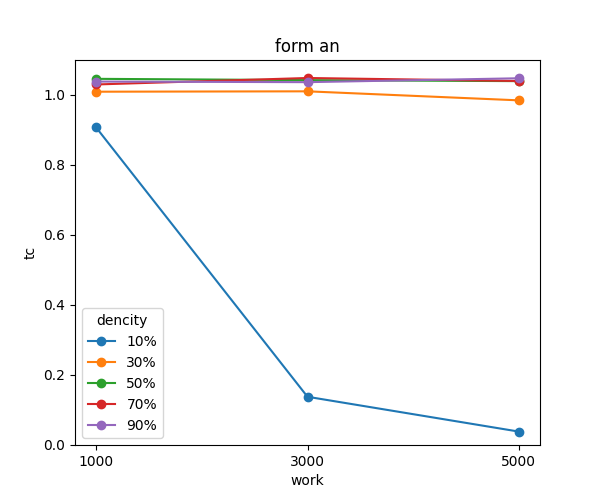
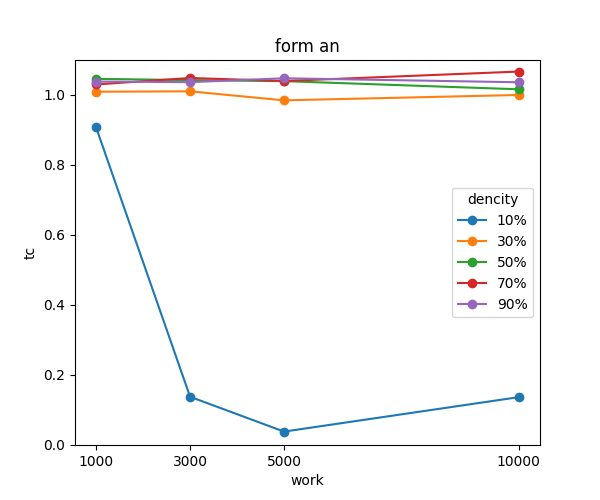
commit

diff --git a/src/src8/plot5_calculate_keepdTc.py b/src/src8/plot5_calculate_keepdTc.py
@@ -11,12 +11,19 @@ from matplotlib.animation import FuncAnimation
 from datetime import datetime
 from statistics import mean
 
-names = ["3_keepd_09_form_or_t10_g10000_r100_w5000_b1",
+names = [
+         "3_keepd_09_form_or_t10_g10000_r100_w10000_b1",
+         "3_keepd_07_form_or_t10_g10000_r100_w10000_b1",
+         "3_keepd_05_form_or_t10_g10000_r100_w10000_b1",
+         "3_keepd_03_form_or_t10_g10000_r100_w10000_b1",
+         "3_keepd_01_form_or_t10_g10000_r100_w10000_b1",
+
+         "3_keepd_09_form_or_t10_g10000_r100_w5000_b1",
          "3_keepd_07_form_or_t10_g10000_r100_w5000_b1",
          "3_keepd_05_form_or_t10_g10000_r100_w5000_b1",
          "3_keepd_03_form_or_t10_g10000_r100_w5000_b1",
          "3_keepd_01_form_or_t10_g10000_r100_w5000_b1",
-         
+
          "3_keepd_09_form_or_t10_g10000_r100_w3000_b1",
          "3_keepd_07_form_or_t10_g10000_r100_w3000_b1",
          "3_keepd_05_form_or_t10_g10000_r100_w3000_b1",
@@ -29,6 +36,12 @@ names = ["3_keepd_09_form_or_t10_g10000_r100_w5000_b1",
          "3_keepd_03_form_or_t10_g10000_r100_w1000_b1",
          "3_keepd_01_form_or_t10_g10000_r100_w1000_b1",
 
+
+         "3_keepd_09_leave_or_t10_g10000_r100_w10000_b1",
+         "3_keepd_07_leave_or_t10_g10000_r100_w10000_b1",
+         "3_keepd_05_leave_or_t10_g10000_r100_w10000_b1",
+         "3_keepd_03_leave_or_t10_g10000_r100_w10000_b1",
+         "3_keepd_01_leave_or_t10_g10000_r100_w10000_b1",
 
          "3_keepd_09_leave_or_t10_g10000_r100_w5000_b1",
          "3_keepd_07_leave_or_t10_g10000_r100_w5000_b1",
@@ -49,12 +62,18 @@ names = ["3_keepd_09_form_or_t10_g10000_r100_w5000_b1",
          "3_keepd_01_leave_or_t10_g10000_r100_w1000_b1",
 
 
+         "3_keepd_09_form_an_t10_g10000_r100_w10000_b1",
+         "3_keepd_07_form_an_t10_g10000_r100_w10000_b1",
+         "3_keepd_05_form_an_t10_g10000_r100_w10000_b1",
+         "3_keepd_03_form_an_t10_g10000_r100_w10000_b1",
+         "3_keepd_01_form_an_t10_g10000_r100_w10000_b1",
+
          "3_keepd_09_form_an_t10_g10000_r100_w5000_b1",
          "3_keepd_07_form_an_t10_g10000_r100_w5000_b1",
          "3_keepd_05_form_an_t10_g10000_r100_w5000_b1",
          "3_keepd_03_form_an_t10_g10000_r100_w5000_b1",
          "3_keepd_01_form_an_t10_g10000_r100_w5000_b1",
-         
+
          "3_keepd_09_form_an_t10_g10000_r100_w3000_b1",
          "3_keepd_07_form_an_t10_g10000_r100_w3000_b1",
          "3_keepd_05_form_an_t10_g10000_r100_w3000_b1",
@@ -68,12 +87,18 @@ names = ["3_keepd_09_form_or_t10_g10000_r100_w5000_b1",
          "3_keepd_01_form_an_t10_g10000_r100_w1000_b1",
 
 
+         "3_keepd_09_leave_an_t10_g10000_r100_w10000_b1",
+         "3_keepd_07_leave_an_t10_g10000_r100_w10000_b1",
+         "3_keepd_05_leave_an_t10_g10000_r100_w10000_b1",
+         "3_keepd_03_leave_an_t10_g10000_r100_w10000_b1",
+         "3_keepd_01_leave_an_t10_g10000_r100_w10000_b1",
+
          "3_keepd_09_leave_an_t10_g10000_r100_w5000_b1",
          "3_keepd_07_leave_an_t10_g10000_r100_w5000_b1",
          "3_keepd_05_leave_an_t10_g10000_r100_w5000_b1",
          "3_keepd_03_leave_an_t10_g10000_r100_w5000_b1",
          "3_keepd_01_leave_an_t10_g10000_r100_w5000_b1",
-         
+
          "3_keepd_09_leave_an_t10_g10000_r100_w3000_b1",
          "3_keepd_07_leave_an_t10_g10000_r100_w3000_b1",
          "3_keepd_05_leave_an_t10_g10000_r100_w3000_b1",
@@ -99,3 +124,169 @@ def main(csv, name, generation):
 for name in names:
     main("D:/master/src8/"+name+".csv", name=name, generation=10000) #TODO:
 
+name:3_keepd_09_form_or_t10_g10000_r100_w10000_b1
+tc: 1.0445
+name:3_keepd_07_form_or_t10_g10000_r100_w10000_b1
+tc: 1.0565
+name:3_keepd_05_form_or_t10_g10000_r100_w10000_b1
+tc: 1.0700999999999998
+name:3_keepd_03_form_or_t10_g10000_r100_w10000_b1
+tc: 1.0598999999999998
+name:3_keepd_01_form_or_t10_g10000_r100_w10000_b1
+tc: 1.0343
+name:3_keepd_09_form_or_t10_g10000_r100_w5000_b1
+tc: 1.0298
+name:3_keepd_07_form_or_t10_g10000_r100_w5000_b1
+tc: 1.0720999999999998
+name:3_keepd_05_form_or_t10_g10000_r100_w5000_b1
+tc: 1.0520999999999998
+name:3_keepd_03_form_or_t10_g10000_r100_w5000_b1
+tc: 1.0566999999999998
+name:3_keepd_01_form_or_t10_g10000_r100_w5000_b1
+tc: 1.042
+name:3_keepd_09_form_or_t10_g10000_r100_w3000_b1
+tc: 1.058
+name:3_keepd_07_form_or_t10_g10000_r100_w3000_b1
+tc: 1.0403
+name:3_keepd_05_form_or_t10_g10000_r100_w3000_b1
+tc: 1.0628000000000002
+name:3_keepd_03_form_or_t10_g10000_r100_w3000_b1
+tc: 1.0555999999999999
+name:3_keepd_01_form_or_t10_g10000_r100_w3000_b1
+tc: 1.0612999999999997
+name:3_keepd_09_form_or_t10_g10000_r100_w1000_b1
+tc: 1.0492999999999997
+name:3_keepd_07_form_or_t10_g10000_r100_w1000_b1
+tc: 1.0553
+name:3_keepd_05_form_or_t10_g10000_r100_w1000_b1
+tc: 1.0418
+name:3_keepd_03_form_or_t10_g10000_r100_w1000_b1
+tc: 1.049
+name:3_keepd_01_form_or_t10_g10000_r100_w1000_b1
+tc: 1.0396999999999998
+
+
+name:3_keepd_09_leave_or_t10_g10000_r100_w10000_b1
+tc: 1.0399
+name:3_keepd_07_leave_or_t10_g10000_r100_w10000_b1
+tc: 1.0463999999999998
+name:3_keepd_05_leave_or_t10_g10000_r100_w10000_b1
+tc: 1.0531
+name:3_keepd_03_leave_or_t10_g10000_r100_w10000_b1
+tc: 0.8232999999999999
+name:3_keepd_01_leave_or_t10_g10000_r100_w10000_b1
+tc: 0.1426
+name:3_keepd_09_leave_or_t10_g10000_r100_w5000_b1
+tc: 1.0413999999999999
+name:3_keepd_07_leave_or_t10_g10000_r100_w5000_b1
+tc: 1.0355
+name:3_keepd_05_leave_or_t10_g10000_r100_w5000_b1
+tc: 1.0538999999999998
+name:3_keepd_03_leave_or_t10_g10000_r100_w5000_b1
+tc: 0.9389999999999997
+name:3_keepd_01_leave_or_t10_g10000_r100_w5000_b1
+tc: 0.13599999999999998
+name:3_keepd_09_leave_or_t10_g10000_r100_w3000_b1
+tc: 1.076
+name:3_keepd_07_leave_or_t10_g10000_r100_w3000_b1
+tc: 1.0378
+name:3_keepd_05_leave_or_t10_g10000_r100_w3000_b1
+tc: 1.0275
+name:3_keepd_03_leave_or_t10_g10000_r100_w3000_b1
+tc: 1.02
+name:3_keepd_01_leave_or_t10_g10000_r100_w3000_b1
+tc: 0.7171
+name:3_keepd_09_leave_or_t10_g10000_r100_w1000_b1
+tc: 1.0561999999999998
+name:3_keepd_07_leave_or_t10_g10000_r100_w1000_b1
+tc: 1.0455999999999999
+name:3_keepd_05_leave_or_t10_g10000_r100_w1000_b1
+tc: 1.0572
+name:3_keepd_03_leave_or_t10_g10000_r100_w1000_b1
+tc: 1.0615999999999999
+name:3_keepd_01_leave_or_t10_g10000_r100_w1000_b1
+tc: 1.0051
+
+
+name:3_keepd_09_form_an_t10_g10000_r100_w10000_b1
+tc: 1.0363999999999998
+name:3_keepd_07_form_an_t10_g10000_r100_w10000_b1
+tc: 1.067
+name:3_keepd_05_form_an_t10_g10000_r100_w10000_b1
+tc: 1.0163
+name:3_keepd_03_form_an_t10_g10000_r100_w10000_b1
+tc: 1.0001
+name:3_keepd_01_form_an_t10_g10000_r100_w10000_b1
+tc: 0.13679999999999998
+name:3_keepd_09_form_an_t10_g10000_r100_w5000_b1
+tc: 1.0478
+name:3_keepd_07_form_an_t10_g10000_r100_w5000_b1
+tc: 1.04
+name:3_keepd_05_form_an_t10_g10000_r100_w5000_b1
+tc: 1.0395999999999999
+name:3_keepd_03_form_an_t10_g10000_r100_w5000_b1
+tc: 0.9846999999999998
+name:3_keepd_01_form_an_t10_g10000_r100_w5000_b1
+tc: 0.038299999999999994
+name:3_keepd_09_form_an_t10_g10000_r100_w3000_b1
+tc: 1.0366999999999997
+name:3_keepd_07_form_an_t10_g10000_r100_w3000_b1
+tc: 1.0486
+name:3_keepd_05_form_an_t10_g10000_r100_w3000_b1
+tc: 1.0425
+name:3_keepd_03_form_an_t10_g10000_r100_w3000_b1
+tc: 1.0105
+name:3_keepd_01_form_an_t10_g10000_r100_w3000_b1
+tc: 0.1378
+name:3_keepd_09_form_an_t10_g10000_r100_w1000_b1
+tc: 1.0384
+name:3_keepd_07_form_an_t10_g10000_r100_w1000_b1
+tc: 1.0301
+name:3_keepd_05_form_an_t10_g10000_r100_w1000_b1
+tc: 1.0461999999999998
+name:3_keepd_03_form_an_t10_g10000_r100_w1000_b1
+tc: 1.0094
+name:3_keepd_01_form_an_t10_g10000_r100_w1000_b1
+tc: 0.9071999999999999
+
+
+name:3_keepd_09_leave_an_t10_g10000_r100_w10000_b1
+tc: 1.0371
+name:3_keepd_07_leave_an_t10_g10000_r100_w10000_b1
+tc: 1.0416999999999998
+name:3_keepd_05_leave_an_t10_g10000_r100_w10000_b1
+tc: 1.0592
+name:3_keepd_03_leave_an_t10_g10000_r100_w10000_b1
+tc: 1.0483999999999998
+name:3_keepd_01_leave_an_t10_g10000_r100_w10000_b1
+tc: 1.0639
+name:3_keepd_09_leave_an_t10_g10000_r100_w5000_b1
+tc: 1.068
+name:3_keepd_07_leave_an_t10_g10000_r100_w5000_b1
+tc: 1.059
+name:3_keepd_05_leave_an_t10_g10000_r100_w5000_b1
+tc: 1.0345
+name:3_keepd_03_leave_an_t10_g10000_r100_w5000_b1
+tc: 1.056
+name:3_keepd_01_leave_an_t10_g10000_r100_w5000_b1
+tc: 1.0480999999999998
+name:3_keepd_09_leave_an_t10_g10000_r100_w3000_b1
+tc: 1.0439
+name:3_keepd_07_leave_an_t10_g10000_r100_w3000_b1
+tc: 1.032
+name:3_keepd_05_leave_an_t10_g10000_r100_w3000_b1
+tc: 1.0432
+name:3_keepd_03_leave_an_t10_g10000_r100_w3000_b1
+tc: 1.0458999999999996
+name:3_keepd_01_leave_an_t10_g10000_r100_w3000_b1
+tc: 1.0476999999999999
+name:3_keepd_09_leave_an_t10_g10000_r100_w1000_b1
+tc: 1.0595999999999999
+name:3_keepd_07_leave_an_t10_g10000_r100_w1000_b1
+tc: 1.06
+name:3_keepd_05_leave_an_t10_g10000_r100_w1000_b1
+tc: 1.054
+name:3_keepd_03_leave_an_t10_g10000_r100_w1000_b1
+tc: 1.0456999999999999
+name:3_keepd_01_leave_an_t10_g10000_r100_w1000_b1
+tc: 1.0543

diff --git a/src/src8/plot5_keepdTc_fan.py b/src/src8/plot5_keepdTc_fan.py
@@ -1,3 +1,4 @@
+# work*tc dencity別 折れ線グラフ
 import os
 import time
 import random
@@ -45,14 +46,14 @@ from adjustText import adjust_text
 
 # データを整理
 data = {
-    "10%": {1000: 0.9072, 3000: 0.1378, 5000: 0.0383},
-    "30%": {1000: 1.0094, 3000: 1.0105, 5000: 0.9847},
-    "50%": {1000: 1.0462, 3000: 1.0425, 5000: 1.0396},
-    "70%": {1000: 1.0301, 3000: 1.0486, 5000: 1.0400},
-    "90%": {1000: 1.0384, 3000: 1.0367, 5000: 1.0478},
+    "10%": {1000: 0.9072, 3000: 0.1378, 5000: 0.0383, 10000: 0.1368},
+    "30%": {1000: 1.0094, 3000: 1.0105, 5000: 0.9847, 10000: 1.0001},
+    "50%": {1000: 1.0462, 3000: 1.0425, 5000: 1.0396, 10000: 1.0163},
+    "70%": {1000: 1.0301, 3000: 1.0486, 5000: 1.0400, 10000: 1.0670},
+    "90%": {1000: 1.0384, 3000: 1.0367, 5000: 1.0478, 10000: 1.0364}
 }
 
-x_values = [1000, 3000, 5000]
+x_values = [1000, 3000, 5000, 10000]
 
 # グラフを作成
 plt.figure(figsize=(6, 5))

diff --git a/src/src8/plot5_keepdTc_lan.py b/src/src8/plot5_keepdTc_lan.py
@@ -47,14 +47,14 @@ from adjustText import adjust_text
 
 # データを整理
 data = {
-    "10%": {1000: 1.0543,   3000: 1.0477, 5000: 1.0481},
-    "30%": {1000: 1.0457,   3000: 1.0459, 5000: 1.0560},
-    "50%": {1000: 1.0540,   3000: 1.0432, 5000: 1.0345},
-    "70%": {1000: 1.0600,   3000: 1.0320, 5000: 1.0590},
-    "90%": {1000: 1.0596,   3000: 1.0439, 5000: 1.0680},
+    "10%": {1000: 1.0543, 3000: 1.0477, 5000: 1.0481, 10000: 1.0639},
+    "30%": {1000: 1.0457, 3000: 1.0459, 5000: 1.0560, 10000: 1.0484},
+    "50%": {1000: 1.0540, 3000: 1.0432, 5000: 1.0345, 10000: 1.0592},
+    "70%": {1000: 1.0600, 3000: 1.0320, 5000: 1.0590, 10000: 1.0417},
+    "90%": {1000: 1.0596, 3000: 1.0439, 5000: 1.0680, 10000: 1.0371}
 }
 
-x_values = [1000, 3000, 5000]
+x_values = [1000, 3000, 5000, 10000]
 
 # グラフを作成
 plt.figure(figsize=(6, 5))

diff --git a/src/src8/plot5_keepdTc_lor.py b/src/src8/plot5_keepdTc_lor.py
@@ -46,14 +46,14 @@ from adjustText import adjust_text
 
 # データを整理
 data = {
-    "10%": {1000: 1.0051, 3000: 0.7171, 5000: 0.1360},
-    "30%": {1000: 1.0616, 3000: 1.0200, 5000: 0.9390},
-    "50%": {1000: 1.0572, 3000: 1.0275, 5000: 1.0539},
-    "70%": {1000: 1.0456, 3000: 1.0378, 5000: 1.0355},
-    "90%": {1000: 1.0562, 3000: 1.0760, 5000: 1.0414},
+    "10%": {1000: 1.0051, 3000: 0.7171, 5000: 0.1360, 10000: 0.1426},
+    "30%": {1000: 1.0616, 3000: 1.0200, 5000: 0.9390, 10000: 0.8233},
+    "50%": {1000: 1.0572, 3000: 1.0275, 5000: 1.0539, 10000: 1.0531},
+    "70%": {1000: 1.0456, 3000: 1.0378, 5000: 1.0355, 10000: 1.0464},
+    "90%": {1000: 1.0562, 3000: 1.0760, 5000: 1.0414, 10000: 1.0399}
 }
 
-x_values = [1000, 3000, 5000]
+x_values = [1000, 3000, 5000, 10000]
 
 # グラフを作成
 plt.figure(figsize=(6, 5))

diff --git a/src/src8/plot5_keepdTc_for.py b/src/src8/plot5_keepdTc_for.py
@@ -46,14 +46,14 @@ from adjustText import adjust_text
 
 # データを整理
 data = {
-    "10%": {1000: 1.0397, 3000: 1.0613, 5000: 1.042},
-    "30%": {1000: 1.0490, 3000: 1.0556, 5000: 1.0567},
-    "50%": {1000: 1.0418, 3000: 1.0628, 5000: 1.0521},
-    "70%": {1000: 1.0553, 3000: 1.0403, 5000: 1.0721},
-    "90%": {1000: 1.0493, 3000: 1.0580, 5000: 1.0298},
+    "10%": {1000: 1.0397, 3000: 1.0613, 5000: 1.0420, 10000: 1.0343},
+    "30%": {1000: 1.0490, 3000: 1.0556, 5000: 1.0567, 10000: 1.0599},
+    "50%": {1000: 1.0418, 3000: 1.0628, 5000: 1.0521, 10000: 1.0701},
+    "70%": {1000: 1.0553, 3000: 1.0403, 5000: 1.0721, 10000: 1.0565},
+    "90%": {1000: 1.0493, 3000: 1.0580, 5000: 1.0298, 10000: 1.0445}
 }
 
-x_values = [1000, 3000, 5000]
+x_values = [1000, 3000, 5000, 10000]
 
 # グラフを作成
 plt.figure(figsize=(6, 5))
